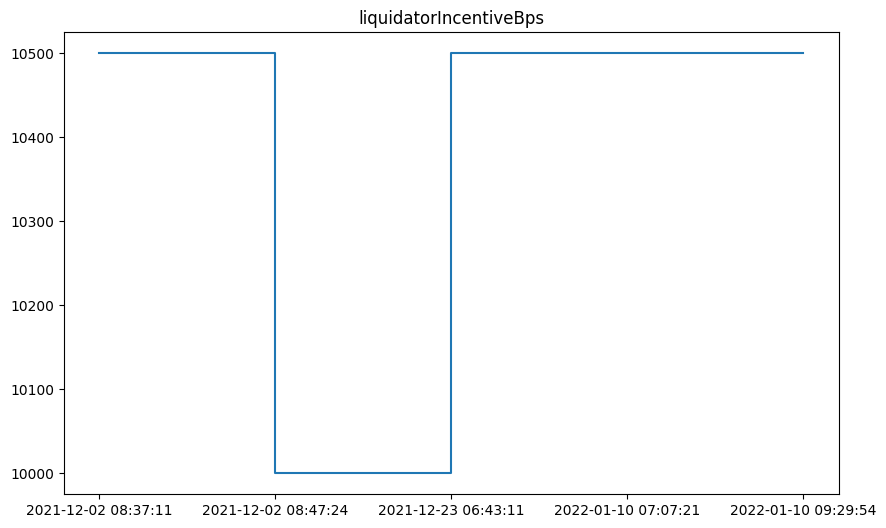
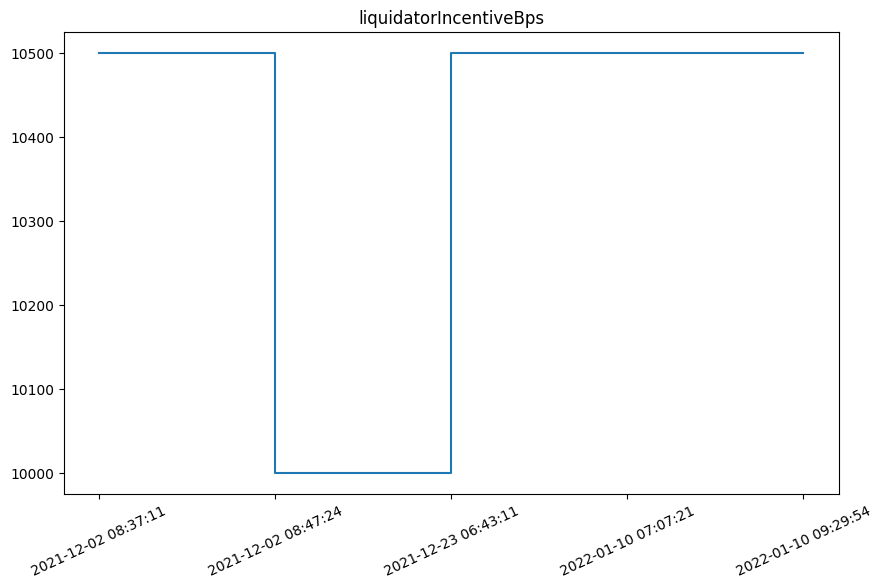
Made plot labels more legible

diff --git a/dataManipulation/visualizeData.py b/dataManipulation/visualizeData.py
@@ -1,7 +1,6 @@
 import pandas as pd
 import matplotlib.pyplot as plt
 
-
 df = pd.read_csv('decodedData.csv')
 
 for column in df.columns[19:]:
@@ -10,8 +9,10 @@ for column in df.columns[19:]:
             continue
     dfNew = pd.DataFrame().assign(DateTime=df['DateTime'], Data=df[column])
     dfNew = dfNew.dropna()
+    dfNew['Data'] = dfNew['Data'].astype(float)
     plt.plot(dfNew['DateTime'], dfNew['Data'], drawstyle='steps')
     plt.title(column)
     plt.rcParams["figure.figsize"] = (10, 6)
+    plt.xticks(rotation=25)
     plt.savefig('plots/' + column + '.png', bbox_inches='tight')
     plt.show()
